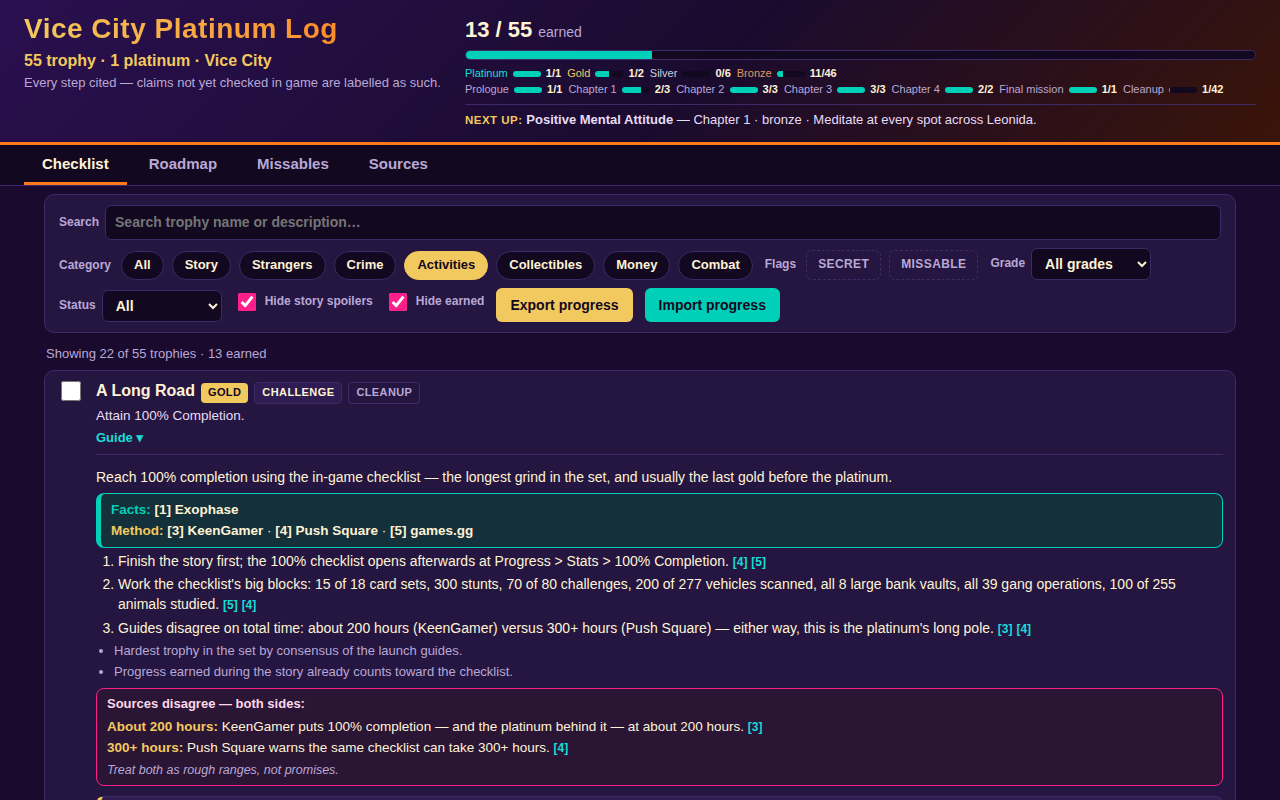
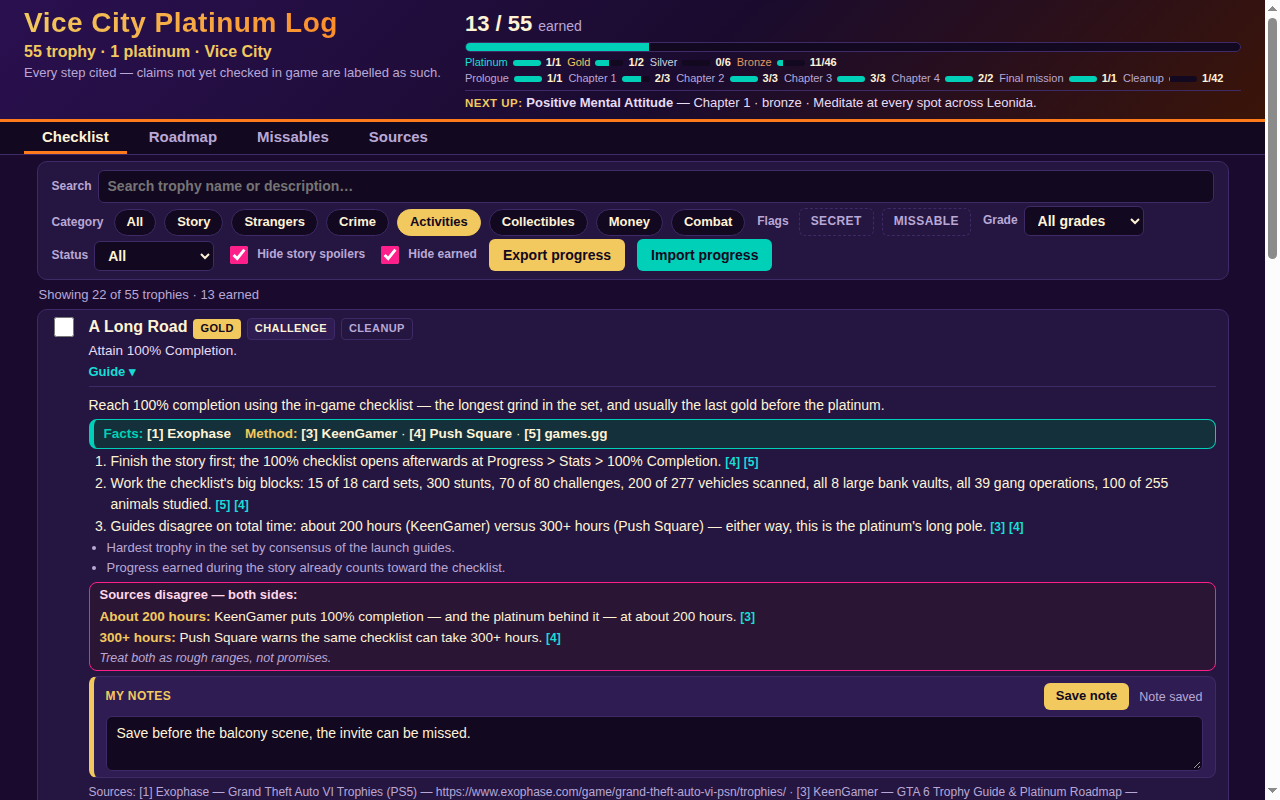
Fix: make per-trophy notes visible in screenshot 1 (compact header/toolbar/guide, Sources one line, notes flex row)
Notes box was below the 800px fold (top 796); now bottom 778px. Sources
block and disagree box stay fully visible. No text, data, or font changes.

diff --git a/app/style.css b/app/style.css
@@ -33,7 +33,7 @@ a { color: var(--cyan); }
   flex-wrap: wrap;
   gap: 24px;
   justify-content: space-between;
-  padding: 14px 24px 12px;
+  padding: 8px 24px 6px;
   background: linear-gradient(135deg, #2A1050 0%, #1A0B2E 55%, #3A1408 100%);
   border-bottom: 3px solid var(--orange);
 }
@@ -47,19 +47,19 @@ a { color: var(--cyan); }
     -webkit-background-clip: text; background-clip: text; color: transparent;
   }
 }
-.tagline { margin: 4px 0 0; font-size: 16px; font-weight: 700; color: var(--sand); }
-.subline { margin: 2px 0 0; font-size: 13px; color: var(--muted); }
+.tagline { margin: 1px 0 0; font-size: 16px; font-weight: 700; color: var(--sand); }
+.subline { margin: 1px 0 0; font-size: 13px; color: var(--muted); }
 /* R2-M7 header compaction: max-width 840px (was 520) so Next Up fits on
    one line at 1280px and the progress block stops driving header height. */
 .progress-block { min-width: 320px; max-width: 840px; flex: 1; }
 .progress-big { font-size: 22px; font-weight: 800; color: var(--cream); }
 .progress-big .progress-label { font-size: 14px; font-weight: 400; color: var(--muted); margin-left: 6px; }
-.progress-bar { height: 10px; background: var(--ink); border: 1px solid var(--line); border-radius: 6px; overflow: hidden; margin: 4px 0 6px; }
+.progress-bar { height: 10px; background: var(--ink); border: 1px solid var(--line); border-radius: 6px; overflow: hidden; margin: 2px 0 3px; }
 .progress-fill { height: 100%; background: var(--teal); transition: width .2s; }
 .grade-bars, .stage-bars { display: flex; flex-wrap: wrap; gap: 2px 6px; font-size: 11px; color: var(--muted); }
 .grade-bars b, .stage-bars b { color: var(--cream); font-weight: 600; }
 .mini-bar { display: inline-block; width: 28px; height: 6px; background: var(--ink); border-radius: 3px; overflow: hidden; vertical-align: middle; margin: 0 2px; }
-.next-up { margin: 6px 0 0; font-size: 13px; color: #E8DCF5; border-top: 1px solid var(--line); padding-top: 6px; }
+.next-up { margin: 3px 0 0; font-size: 13px; color: #E8DCF5; border-top: 1px solid var(--line); padding-top: 3px; }
 .next-up .next-label { color: var(--sand); font-weight: 800; text-transform: uppercase; font-size: 11.5px; letter-spacing: .5px; }
 .mini-bar i { display: block; height: 100%; background: var(--teal); }
 .dot-platinum { color: var(--cyan); } .dot-gold { color: var(--sand); }
@@ -69,20 +69,20 @@ a { color: var(--cyan); }
 .tabs { display: flex; gap: 4px; padding: 0 24px; background: var(--ink); border-bottom: 1px solid var(--line); }
 .tabs button {
   background: none; border: none; color: var(--muted); font: inherit; font-weight: 700;
-  padding: 8px 18px; cursor: pointer; border-bottom: 3px solid transparent;
+  padding: 4px 18px; cursor: pointer; border-bottom: 3px solid transparent;
 }
 .tabs button:hover { color: var(--cream); }
 .tabs button.active { color: var(--cream); border-bottom-color: var(--orange); }
 
-main { padding: 8px 24px 24px; max-width: 1240px; margin: 0 auto; }
+main { padding: 6px 24px 24px; max-width: 1240px; margin: 0 auto; }
 .panel[hidden] { display: none; }
 .panel-intro { color: var(--muted); max-width: 760px; margin: 8px 0 10px; }
 
 /* Toolbar */
 .toolbar {
-  display: flex; flex-wrap: wrap; gap: 8px 12px; align-items: end;
+  display: flex; flex-wrap: wrap; gap: 3px 12px; align-items: end;
   background: var(--panel); border: 1px solid var(--line); border-radius: 10px;
-  padding: 10px 14px; margin-bottom: 12px;
+  padding: 8px 14px; margin-bottom: 6px;
 }
 /* R2-M7: toolbar labels sit BESIDE their controls (row direction), not
    above them — the stacked label is what made every toolbar row ~55px
@@ -91,7 +91,7 @@ main { padding: 8px 24px 24px; max-width: 1240px; margin: 0 auto; }
 .tool { display: flex; flex-direction: row; gap: 6px; font-size: 12px; font-weight: 700; color: var(--muted); min-width: 0; align-items: center; }
 .tool input[type="search"], .tool select {
   font: inherit; font-size: 14px; color: var(--cream); background: var(--ink);
-  border: 1px solid var(--line); border-radius: 6px; padding: 6px 9px; min-width: 120px;
+  border: 1px solid var(--line); border-radius: 6px; padding: 5px 9px; min-width: 120px;
 }
 /* R2-M5 toolbar fix (1280x800): the search box (old min-width 230px) was
    clipped at the right edge once the chip + flag rows widened the toolbar.
@@ -100,7 +100,7 @@ main { padding: 8px 24px 24px; max-width: 1240px; margin: 0 auto; }
    overflows the toolbar and nothing is cut off. */
 .tool:has(> input[type="search"]) { flex: 1 1 100%; }
 .tool input[type="search"] { min-width: 160px; width: auto; flex: 1; }
-.tool.check { flex-direction: row; align-items: center; gap: 6px; padding-bottom: 8px; cursor: pointer; }
+.tool.check { flex-direction: row; align-items: center; gap: 6px; padding-bottom: 4px; cursor: pointer; }
 .tool.check input { width: 18px; height: 18px; accent-color: var(--pink); }
 /* Category chips (R2-M2): one row above the other toolbar controls, shared
    with the flag toggles since R2-M7 (no flex-basis:100% — the flag row
@@ -114,7 +114,7 @@ main { padding: 8px 24px 24px; max-width: 1240px; margin: 0 auto; }
 .chip {
   font: inherit; font-size: 13px; font-weight: 700; color: var(--cream);
   background: var(--ink); border: 1px solid var(--line); border-radius: 999px;
-  padding: 4px 12px; cursor: pointer; white-space: nowrap;
+  padding: 3px 12px; cursor: pointer; white-space: nowrap;
 }
 .chip:hover { border-color: var(--teal); }
 .chip:focus-visible { outline: 2px solid var(--teal); outline-offset: 2px; }
@@ -128,7 +128,7 @@ main { padding: 8px 24px 24px; max-width: 1240px; margin: 0 auto; }
 .flag-toggle {
   font: inherit; font-size: 12px; font-weight: 800; letter-spacing: .4px; text-transform: uppercase;
   color: var(--muted); background: transparent; border: 1px dashed var(--line);
-  border-radius: 6px; padding: 5px 11px; cursor: pointer; white-space: nowrap;
+  border-radius: 6px; padding: 4px 11px; cursor: pointer; white-space: nowrap;
 }
 .flag-toggle:hover { border-color: var(--teal); color: var(--cream); }
 .flag-toggle:focus-visible { outline: 2px solid var(--teal); outline-offset: 2px; }
@@ -136,18 +136,18 @@ main { padding: 8px 24px 24px; max-width: 1240px; margin: 0 auto; }
 .flag-toggle.active.flag-missable { background: var(--pink); border: 1px solid var(--pink); color: #fff; }
 #export, .import {
   font: inherit; font-size: 14px; font-weight: 700; color: var(--ink);
-  background: var(--sand); border: none; border-radius: 6px; padding: 7px 14px; cursor: pointer;
+  background: var(--sand); border: none; border-radius: 6px; padding: 6px 14px; cursor: pointer;
 }
 .import { background: var(--teal); }
 .import input { display: none; }
 #export:hover, .import:hover { filter: brightness(1.08); }
-.list-count { color: var(--muted); font-size: 13px; margin: 0 2px 6px; }
+.list-count { color: var(--muted); font-size: 13px; margin: 0 2px 4px; }
 
 /* Trophy cards */
 .trophy-list { display: flex; flex-direction: column; gap: 8px; }
 .card {
   background: var(--panel); border: 1px solid var(--line); border-radius: 10px;
-  padding: 8px 12px; display: flex; gap: 12px; align-items: flex-start;
+  padding: 5px 12px; display: flex; gap: 12px; align-items: flex-start;
 }
 .card.earned { border-color: var(--green); background: #1E2A33; }
 /* Hidden-trophy row (R2-M3): dimmed, dashed border, deeper background — the
@@ -158,7 +158,7 @@ main { padding: 8px 24px 24px; max-width: 1240px; margin: 0 auto; }
 .card-head { display: flex; flex-wrap: wrap; gap: 6px; align-items: baseline; }
 .card-name { font-size: 16px; font-weight: 700; margin: 0; }
 .card-name.hidden-name { color: var(--muted); font-style: italic; font-weight: 600; }
-.card-desc { margin: 2px 0 0; font-size: 13.5px; color: #E8DCF5; }
+.card-desc { margin: 1px 0 0; font-size: 13.5px; color: #E8DCF5; }
 .card-desc.hidden-desc { color: var(--muted); font-style: italic; }
 .badge {
   font-size: 11px; font-weight: 800; letter-spacing: .4px; text-transform: uppercase;
@@ -174,43 +174,44 @@ main { padding: 8px 24px 24px; max-width: 1240px; margin: 0 auto; }
 .badge-watch { background: transparent; color: var(--pink); border: 1px solid var(--pink); }
 .badge-unconfirmed { background: transparent; color: var(--sand); border: 1px solid var(--sand); }
 .badge-hidden { background: transparent; color: var(--muted); border: 1px solid var(--line); }
-.card-guide { margin: 6px 0 0; font-size: 14px; color: var(--cream); }
+.card-guide { margin: 4px 0 0; font-size: 14px; color: var(--cream); }
 .card-toggle {
   background: none; border: none; color: var(--cyan); font: inherit; font-size: 13px;
-  font-weight: 700; padding: 4px 0 0; cursor: pointer; text-align: left;
+  font-weight: 700; padding: 2px 0 0; cursor: pointer; text-align: left;
 }
 /* R2-M7: guide-detail + Sources block + disagree box compacted (margins and
    padding trimmed, fonts untouched) so the Sources block and the disagree
    box fit in the first 800px frame with the guide open. */
-.guide-detail { margin-top: 6px; border-top: 1px solid var(--line); padding-top: 6px; font-size: 14px; }
-.guide-detail ol { margin: 3px 0; padding-left: 22px; }
-.guide-detail li { margin-bottom: 3px; }
+.guide-detail { margin-top: 4px; border-top: 1px solid var(--line); padding-top: 4px; font-size: 14px; }
+.guide-detail ol { margin: 2px 0; padding-left: 22px; }
+.guide-detail li { margin-bottom: 2px; }
 .cite { font-size: 12px; color: var(--cyan); font-weight: 700; white-space: nowrap; }
-.guide-detail .tips { margin: 4px 0 0; padding-left: 18px; color: var(--muted); font-size: 13px; }
-.guide-detail .tips li { margin-bottom: 2px; }
+.guide-detail .tips { margin: 3px 0 0; padding-left: 18px; color: var(--muted); font-size: 13px; }
+.guide-detail .tips li { margin-bottom: 1px; }
 .guide-sources { margin: 6px 0 0; font-size: 12px; color: var(--muted); overflow-wrap: anywhere; }
 /* Per-trophy notes (R2-M4): private note per trophy, saved to localStorage.
    Sand left edge like the save-note box; textarea on the ink background so
    typing reads clearly on the dark theme. */
 .guide-notes {
-  margin: 10px 0 0; padding: 8px 12px; background: var(--panel2);
+  margin: 5px 0 0; padding: 6px 12px; background: var(--panel2);
+  display: flex; flex-wrap: wrap; align-items: center;
   border: 1px solid var(--line); border-left: 5px solid var(--sand); border-radius: 8px;
 }
 .notes-label {
   display: block; font-size: 12px; font-weight: 800; letter-spacing: .4px;
-  text-transform: uppercase; color: var(--sand); margin-bottom: 6px;
+  text-transform: uppercase; color: var(--sand); margin-bottom: 0; flex: 1;
 }
 .notes-input {
   display: block; width: 100%; font: inherit; font-size: 14px; color: var(--cream);
   background: var(--ink); border: 1px solid var(--line); border-radius: 6px;
-  padding: 8px 10px; resize: vertical; min-height: 64px;
+  padding: 6px 10px; resize: vertical; min-height: 0; flex: 1 1 100%; order: 3; margin-top: 6px;
 }
 .notes-input:focus { outline: 2px solid var(--sand); outline-offset: 1px; border-color: var(--sand); }
 .notes-input::placeholder { color: var(--muted); }
-.notes-row { display: flex; align-items: center; gap: 10px; margin-top: 8px; }
+.notes-row { display: flex; align-items: center; gap: 10px; margin-top: 0; order: 2; }
 .notes-save {
   font: inherit; font-size: 13px; font-weight: 700; color: var(--ink);
-  background: var(--sand); border: none; border-radius: 6px; padding: 6px 12px; cursor: pointer;
+  background: var(--sand); border: none; border-radius: 6px; padding: 4px 12px; cursor: pointer;
 }
 .notes-save:hover { filter: brightness(1.08); }
 .notes-status { font-size: 12.5px; color: var(--muted); }
@@ -218,10 +219,11 @@ main { padding: 8px 24px 24px; max-width: 1240px; margin: 0 auto; }
    left edge + deep teal panel so it reads as one block, distinct from the
    pink Sources-disagree box and the plain Sources URL line below it. */
 .guide-srcblock {
-  margin: 6px 0 0; padding: 6px 10px; background: #14303A;
+  margin: 4px 0 0; padding: 4px 10px; background: #14303A;
+  display: flex; flex-wrap: wrap; gap: 2px 14px;
   border: 1px solid var(--teal); border-left: 5px solid var(--teal); border-radius: 8px;
 }
-.guide-srcblock p { margin: 1px 0; font-size: 13.5px; }
+.guide-srcblock p { margin: 0; font-size: 13.5px; }
 .guide-srcblock p:first-child { margin-top: 0; }
 .guide-srcblock p:last-child { margin-bottom: 0; }
 .srcblock-facts b { color: var(--teal); }
@@ -229,13 +231,13 @@ main { padding: 8px 24px 24px; max-width: 1240px; margin: 0 auto; }
 .srcblock-src { font-weight: 700; color: var(--cream); white-space: nowrap; }
 .guide-flag { margin: 6px 0 0; font-size: 12.5px; color: var(--sand); font-weight: 700; }
 .disagree-box {
-  margin: 6px 0 0; padding: 6px 10px; background: #2A1535;
+  margin: 4px 0 0; padding: 3px 10px; background: #2A1535;
   border: 1px solid var(--pink); border-radius: 8px;
 }
-.disagree-head { margin: 0 0 3px; font-weight: 800; color: #FFD7EA; font-size: 13px; }
-.disagree-side { margin: 2px 0; font-size: 13.5px; }
+.disagree-head { margin: 0 0 2px; font-weight: 800; color: #FFD7EA; font-size: 13px; }
+.disagree-side { margin: 1px 0; font-size: 13.5px; }
 .disagree-side b { color: var(--sand); }
-.disagree-note { margin: 3px 0 0; font-size: 12.5px; color: var(--muted); font-style: italic; }
+.disagree-note { margin: 2px 0 0; font-size: 12.5px; color: var(--muted); font-style: italic; }
 .empty { color: var(--muted); padding: 24px; text-align: center; }
 
 /* Roadmap */

diff --git a/app/app.js b/app/app.js
@@ -275,7 +275,7 @@ function buildGuideDetail(t) {
   notesLabel.textContent = 'My notes';
   const notesArea = document.createElement('textarea');
   notesArea.className = 'notes-input';
-  notesArea.rows = 3;
+  notesArea.rows = 2;
   notesArea.placeholder = 'Your own note for this trophy — strategy, loadout, where you got stuck…';
   notesArea.value = notes[t.id] || '';
   notesArea.setAttribute('aria-label', `My notes for ${t.name}`);
